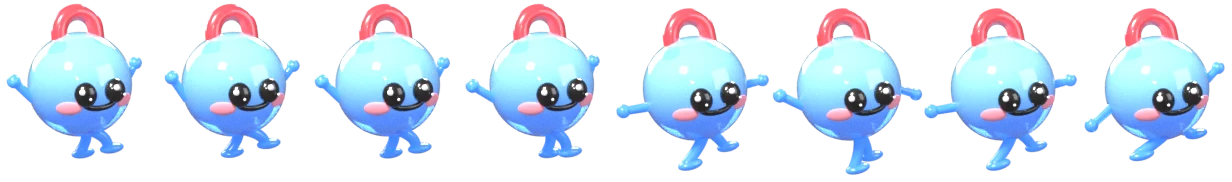
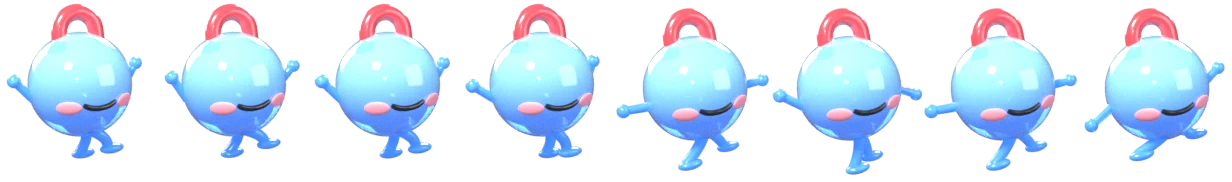
Game: heart-eyes love flight, proximity reactions, animation plan
Claude-Session: https://claude.ai/code/session_019fbWZCuFJHkf5tasQWWvE6

diff --git a/index.html b/index.html
@@ -1475,18 +1475,18 @@ function crash(why){if(R.shield){R.shield=false;sfx('pu_shield');msg('Shield sav
 function respawn(){let i=Math.floor(R.sx/CW);while(R.top[i]==null||i*CW<R.sx)i++;R.sx=i*CW+60;R.y=ground(R.sx);R.vy=0;R.air=false;R.jumps=0;R.lost=0;R.blocked=false;R.snap=1;R.fly=0}
 function power(k,x,y){sfx('pu_'+k);if(k==='shield')R.shield=true;else if(k==='magnet')R.magT=8;else R.x2T=10;msg(PU[k][2]+'!');R.msgT=1.4;for(let i=0;i<12;i++)R.fx.push({x:x+rnd(-30,30),y:y+rnd(-30,30),vx:rnd(-160,160),vy:rnd(-240,80),l:rnd(.4,.8),c:PU[k][0]})}
 function step(dt){if(R.dead)return;if(R.stop>0){R.stop-=dt;R.zp*=Math.exp(-6*dt);return}/* hit-stop: the whole game freezes for a few frames on a big moment */R.t+=dt;R.shk*=Math.exp(-14*dt);if(R.shk<.3)R.shk=0;R.zp*=Math.exp(-7*dt);const tgt=SP0*Math.min(1.7,1+.07*R.lvl);R.speed+=(tgt-R.speed)*Math.min(1,dt*2);R.cx+=R.speed*dt;/* the screen always scrolls right */{const nx=R.sx+R.speed*dt,gn=ground(nx),gc=ground(R.sx);/* an edge ahead (a wall, or the far side of a gap): if the runner only just touches it, it slides up and carries on; lower than that is the end */if(isFinite(gn)&&(!isFinite(gc)||gn<gc-VG)&&R.y>gn+SLIDE){R.blocked=true;R.lost=1}else{R.sx=nx;R.blocked=false}}ensure();/* a gap up (a vertical green line) stops the runner unless it is above the top edge: jump it */
- const wx=R.sx,gy=ground(wx);R.buf=Math.max(0,R.buf-dt);R.hurt=Math.max(0,R.hurt-dt);R.sq*=Math.exp(-9*dt);if(R.bnc>0)R.bnc-=dt;if(R.rx&&R.rx.t>0)R.rx.t-=dt;if(R.tko>0)R.tko-=dt;if(R.wbA>0){R.wbT+=dt;R.wbA*=Math.exp(-2.6*dt);if(R.wbA<.004)R.wbA=0}if(R.cpFly&&R.air&&!RMQ.matches&&R.wbA<.09)R.wbA=.09;/* the checkpoint flight keeps a happy wobble going */if(R.flip>0)R.flip-=dt;if(!R.air&&R.cpFly)R.cpFly=0;if(powered(R)&&!RMQ.matches&&Math.random()<dt*28)R.fx.push({x:R.sx+rnd(-50,20)*VK,y:R.y-rnd(20,150)*VK,vx:rnd(-260,-120),vy:rnd(-60,40),l:rnd(.25,.45),c:formOf(R)[3]?formOf(R)[3][Math.random()<.5?0:1]:'hsl('+Math.round(Math.random()*360)+',95%,62%)',g:.05});
+ const wx=R.sx,gy=ground(wx);R.buf=Math.max(0,R.buf-dt);R.hurt=Math.max(0,R.hurt-dt);R.sq*=Math.exp(-9*dt);if(R.bnc>0)R.bnc-=dt;if(R.rx&&R.rx.t>0)R.rx.t-=dt;if(R.tko>0)R.tko-=dt;{const pu=R.pups.find(p=>!p.got&&!p.nr&&p.x-R.sx<420&&p.x>R.sx);if(pu){pu.nr=1;wob(.08,15)}if(R.nextCp-R.sx<1100&&R.cpNr!==R.nextCp){R.cpNr=R.nextCp;wob(.12,12)}}/* eager wiggle when a power-up or checkpoint comes into range */if(R.cpFly&&R.air){R.cpT+=dt;if(!RMQ.matches&&Math.random()<dt*9)R.fx.push({x:R.sx+rnd(-60,60)*VK,y:R.y-rnd(60,190)*VK,vx:rnd(-80,80),vy:rnd(-220,-120),l:rnd(.6,1),c:'#ff3c96',g:-.2,h:rnd(18,34)})}/* little hearts float off */if(R.wbA>0){R.wbT+=dt;R.wbA*=Math.exp(-2.6*dt);if(R.wbA<.004)R.wbA=0}if(R.cpFly&&R.air&&!RMQ.matches&&R.wbA<.09)R.wbA=.09;/* the checkpoint flight keeps a happy wobble going */if(R.flip>0)R.flip-=dt;if(!R.air&&R.cpFly)R.cpFly=0;if(powered(R)&&!RMQ.matches&&Math.random()<dt*28)R.fx.push({x:R.sx+rnd(-50,20)*VK,y:R.y-rnd(20,150)*VK,vx:rnd(-260,-120),vy:rnd(-60,40),l:rnd(.25,.45),c:formOf(R)[3]?formOf(R)[3][Math.random()<.5?0:1]:'hsl('+Math.round(Math.random()*360)+',95%,62%)',g:.05});
  if(!R.air){if(isFinite(gy)){if(gy-R.y<=DESC*dt){const up=R.y-gy;R.y=up>30?R.y-up*Math.min(1,dt*16):gy;/* a sudden rise (a curb or wall edge) is climbed smoothly */R.coy=0;R.refY=gy}else{R.air=true;R.jumps=1;R.vy=0;R.top0=R.y}}else if((R.coy+=dt)>.14){R.air=true;R.jumps=1;R.vy=0;R.top0=R.y}}
  if(R.air){R.vy+=G*(hold&&R.vy<0&&!(R.fly>0)?HOLDG:1)*(R.cpFly&&R.vy>0?.4:1)*dt;if(R.cpFly&&R.vy>900)R.vy=900;/* checkpoint glide: a floaty, capped fall so the moonwalk shows */R.y+=R.vy*dt;R.top0=Math.min(R.top0,R.y);
   const cont=isFinite(gy)&&(R.y-gy<SLIDE||Math.abs(ground(wx-CW*.6)-gy)<=VG);
   if(cont&&R.y>gy+6&&(R.vy<0||R.y-gy<SLIDE)){R.y-=(R.y-gy)*Math.min(1,dt*16);if(R.vy>0)R.vy=0}/* touching an edge slightly: slide up smoothly */
-  else if(cont&&R.vy>=0&&R.y>=gy-6){const dist=R.y-R.top0;R.y=gy;R.vy=0;R.air=false;R.fly=0;R.coy=0;R.refY=gy;R.cpFly=0;wob(Math.min(.32,.06+dist/1400),17);R.sq=Math.min(.3,.05+dist/2000);if(dist>60&&!RMQ.matches){R.bnc=.45;R.bncA=Math.min(55,dist/9)}if(dist>120)sfx('land',1+rnd(-.07,.07));if(dist>60)puff(R.sx,R.y,Math.min(12,dist/40|0));if(R.buf>0){R.jumps=1;jump()}}
+  else if(cont&&R.vy>=0&&R.y>=gy-6){const dist=R.y-R.top0;R.y=gy;R.vy=0;R.air=false;R.fly=0;R.coy=0;R.refY=gy;if(R.cpFly&&!RMQ.matches)for(let i=0;i<10;i++)R.fx.push({x:R.sx+rnd(-30,30)*VK,y:R.y-rnd(40,140)*VK,vx:rnd(-260,260),vy:rnd(-320,-80),l:rnd(.5,.9),c:'#ff3c96',g:.3,h:rnd(16,30)});R.cpFly=0;wob(Math.min(.32,.06+dist/1400),17);R.sq=Math.min(.3,.05+dist/2000);if(dist>60&&!RMQ.matches){R.bnc=.45;R.bncA=Math.min(55,dist/9)}if(dist>120)sfx('land',1+rnd(-.07,.07));if(dist>60)puff(R.sx,R.y,Math.min(12,dist/40|0));if(R.buf>0){R.jumps=1;jump()}}
   else if(!isFinite(gy)&&R.y>R.cam+(H-H*.6)/Z+40){crash('You fell in a gap.');if(R.dead)return}}/* falling into a gap is only the end once the runner has dropped off the bottom of the screen: a double jump can still get out */
  if(R.fly>0)R.fly-=dt;
- if(R.sx>=R.nextCp){R.lvl++;R.nextCp+=CPD;R.vy=-CPV;R.air=true;R.jumps=1;R.top0=R.y;R.fly=2.6;R.cpFly=1;R.flip=0;wob(.38,11);/* booooing *//* checkpoint: a big launch into the air (R.fly marks the flight; R.cpFly draws it: gooey arrow up, moonwalk glide down) */sfx('cp');R.rings.push({x:R.sx,y:R.y-60*VK,r:60,l:.35});if(R.lvl===1||R.lvl===2)pop(R.sx,R.y-330*VK,R.lvl===1?'JOG':'RUN','#ebbd4e',1.1);msg('Checkpoint '+R.lvl);R.msgT=2;musicRate();R.zp=.05;shake(6);hitStop(2);vib(20)}
+ if(R.sx>=R.nextCp){R.lvl++;R.nextCp+=CPD;R.vy=-CPV;R.air=true;R.jumps=1;R.top0=R.y;R.fly=2.6;R.cpFly=1;R.cpT=0;R.flip=0;wob(.38,11);/* booooing *//* checkpoint: a big launch into the air (R.fly marks the flight; R.cpFly draws it: gooey arrow up, moonwalk glide down) */sfx('cp');R.rings.push({x:R.sx,y:R.y-60*VK,r:60,l:.35});if(R.lvl===1||R.lvl===2)pop(R.sx,R.y-330*VK,R.lvl===1?'JOG':'RUN','#ebbd4e',1.1);msg('Checkpoint '+R.lvl);R.msgT=2;musicRate();R.zp=.05;shake(6);hitStop(2);vib(20)}
  if(R.magT>0)R.magT-=dt;if(R.x2T>0)R.x2T-=dt;
  const cy=R.y-60*VK,cxw=R.sx;
- R.coins.forEach(c=>{if(c.got)return;if(R.magT>0){const dx=cxw-c.x,dy=cy-c.y,d=Math.hypot(dx,dy);if(d<420){const m=Math.min(d,900*dt);c.x+=dx/d*m;c.y+=dy/d*m}}if(Math.abs(c.x-cxw)<100*VK&&Math.abs(c.y-cy)<115*VK){c.got=1;react('coin',.18);R.combo=R.comboT>0?R.combo+1:1;R.comboT=1.3;R.mult=1+(R.combo>=4)+(R.combo>=8);R.bestCombo=Math.max(R.bestCombo,R.combo);const v=CT[c.t][3]*R.mult*(R.x2T>0?2:1);R.score+=v;sfx('c'+c.t,1+.055*Math.min(R.combo-1,12));pop(c.x,c.y-40,'+'+v,CT[c.t][0],.9+c.t*.15);for(let i=0;i<6+c.t*3;i++)R.fx.push({x:c.x,y:c.y,vx:rnd(-220,220),vy:rnd(-280,0),l:.4,c:CT[c.t][0]});if(c.t>=2){hitStop(c.t===3?4:2);R.zp=Math.max(R.zp,.03+.01*c.t);shake(c.t*2);vib(c.t===3?[20,20,40]:12)}if(R.combo%5===0){pop(R.sx,R.y-250*VK,'CHAIN x'+R.combo,'#a9b0ba',1.3);sfx('combo');shake(4)}}});
+ R.coins.forEach(c=>{if(c.got)return;if(R.magT>0){const dx=cxw-c.x,dy=cy-c.y,d=Math.hypot(dx,dy);if(d<420){const m=Math.min(d,900*dt);c.x+=dx/d*m;c.y+=dy/d*m}}if(Math.abs(c.x-cxw)<100*VK&&Math.abs(c.y-cy)<115*VK){c.got=1;react('coin',.18);if(!RMQ.matches)for(let i=0;i<6;i++)R.fx.push({x:c.x,y:c.y,vx:rnd(-220,220),vy:rnd(-260,60),l:rnd(.25,.4),c:i%2?'#ebbd4e':'#fafaf8',g:.1});R.combo=R.comboT>0?R.combo+1:1;R.comboT=1.3;R.mult=1+(R.combo>=4)+(R.combo>=8);R.bestCombo=Math.max(R.bestCombo,R.combo);const v=CT[c.t][3]*R.mult*(R.x2T>0?2:1);R.score+=v;sfx('c'+c.t,1+.055*Math.min(R.combo-1,12));pop(c.x,c.y-40,'+'+v,CT[c.t][0],.9+c.t*.15);for(let i=0;i<6+c.t*3;i++)R.fx.push({x:c.x,y:c.y,vx:rnd(-220,220),vy:rnd(-280,0),l:.4,c:CT[c.t][0]});if(c.t>=2){hitStop(c.t===3?4:2);R.zp=Math.max(R.zp,.03+.01*c.t);shake(c.t*2);vib(c.t===3?[20,20,40]:12)}if(R.combo%5===0){pop(R.sx,R.y-250*VK,'CHAIN x'+R.combo,'#a9b0ba',1.3);sfx('combo');shake(4)}}});
 
  R.pups.forEach(p=>{if(!p.got&&Math.abs(p.x-cxw)<100*VK&&Math.abs(p.y-cy)<115*VK){p.got=1;power(p.k,p.x,p.y);react('pup',.55);R.rings.push({x:R.sx,y:R.y-60*VK,r:50,l:.35})}});
  R.coins=R.coins.filter(c=>!c.got&&c.x>cxw-700);R.pups=R.pups.filter(p=>!p.got&&p.x>cxw-700);
@@ -1521,14 +1521,14 @@ function draw(){const g=cx,s=R,ax=W*AX,ay=H*.6,bg=BGS[Math.floor(s.cx/9000)%BGS.
  /* your best distance so far */
  if(bestD>0){const bx=700+bestD*100;if(bx>x0&&bx<x1){g.save();g.strokeStyle='rgba(235,189,78,.7)';g.lineWidth=5;g.setLineDash([22,16]);g.beginPath();g.moveTo(bx,s.cam-ay/Z-80);g.lineTo(bx,yB);g.stroke();g.restore();g.fillStyle='#ebbd4e';g.font='900 '+46*VK+'px '+FONT;g.textAlign='left';g.textBaseline='top';g.fillText('BEST '+bestD+' m',bx+14,s.cam-ay/Z+120)}}
  if(FR>2&&T[FR]!=null){/* forecast cone: centre = recent drift, bands = 1 and 2 standard deviations growing with the square root of the candles ahead, like a real fan chart */const {mu,sg}=coneAt(T,s.gp,FR),y0=T[FR];for(const [z,al] of [[CONE2,.13],[CONE1,.22]]){g.fillStyle='rgba(169,176,186,'+al+')';g.beginPath();g.moveTo(XF,y0);for(let k=1;k<=10;k++)g.lineTo(XF+k*CW,y0+mu*k-z*sg*Math.sqrt(k));for(let k=10;k>=1;k--)g.lineTo(XF+k*CW,y0+mu*k+z*sg*Math.sqrt(k));g.closePath();g.fill()}g.strokeStyle='rgba(233,235,238,.8)';g.lineWidth=4;g.setLineDash([12,10]);g.beginPath();g.moveTo(XF,y0);for(let k=1;k<=10;k++)g.lineTo(XF+k*CW,y0+mu*k);g.stroke();g.setLineDash([])}
- {const fy=ground(s.nextCp);if(isFinite(fy)&&s.nextCp<x1&&ok(CASE)){const d=560,cxp=s.nextCp+40,cyp=fy-d*.4,pl=.5+.5*Math.sin(s.t*4),fw=CASE.naturalWidth/24,fi=Math.floor(s.t*12)%24;glow(cxp,cyp,(440+60*pl),'235,189,78',.4+.15*pl);glow(cxp+30,cyp+20,(320+50*(1-pl)),'60,200,110',.32+.14*(1-pl));g.drawImage(CASE,fi*fw,0,fw,CASE.naturalHeight,cxp-d/2,fy-d*.86,d,d)}else if(isFinite(fy)&&s.nextCp<x1){g.fillStyle='#fafaf8';g.fillRect(s.nextCp,fy-240,8,240);g.fillStyle='#ebbd4e';g.beginPath();g.moveTo(s.nextCp+8,fy-240);g.lineTo(s.nextCp+110,fy-205);g.lineTo(s.nextCp+8,fy-170);g.fill()}}
- s.coins.forEach(c=>{if(c.x<x0||c.x>Math.min(x1,XF))return;const ct=CT[c.t],r=ct[2]*VK*1.15,rx=Math.max(8,r*Math.abs(Math.cos(s.t*4+c.x*.01))),im=COINI[c.t];if(ok(im)){g.drawImage(im,c.x-rx,c.y-r,2*rx,2*r);return}g.fillStyle=ct[0];g.strokeStyle=ct[1];g.lineWidth=5;g.beginPath();g.ellipse(c.x,c.y,rx,r,0,0,6.3);g.fill();g.stroke()});
- s.pups.forEach(p=>{if(p.x>XF)return;const y=p.y+Math.sin(s.t*3+p.x)*10,pi=PUI[p.k];if(pi&&ok(pi)){const d=150*VK,pl=.5+.5*Math.sin(s.t*5+p.x),fw=pi.naturalWidth/24,fi=Math.floor(s.t*18+p.x*.01)%24;glow(p.x,y,(120+40*pl)*VK,PUGLOW[p.k],.35+.2*pl);g.drawImage(pi,fi*fw,0,fw,pi.naturalHeight,p.x-d/2,y-d/2,d,d);return}g.fillStyle=PU[p.k][0];g.beginPath();g.arc(p.x,y,54*VK,0,6.3);g.fill();g.fillStyle='#fafaf8';g.font='800 '+50*VK+'px '+FONT;g.textAlign='center';g.textBaseline='middle';g.fillText(PU[p.k][1],p.x,y+2)});
+ {const fy0=ground(s.nextCp),cn=Math.max(0,1-(s.nextCp-s.sx)/1100),fy=fy0-Math.abs(Math.sin(s.t*7))*55*cn;/* near: the briefcase hops and glows harder */if(isFinite(fy0)&&s.nextCp<x1&&ok(CASE)){const d=560*(1+.08*cn),cxp=s.nextCp+40,cyp=fy-d*.4,pl=.5+.5*Math.sin(s.t*4),fw=CASE.naturalWidth/24,fi=Math.floor(s.t*12)%24;glow(cxp,cyp,(440+60*pl+140*cn),'235,189,78',.4+.15*pl+.2*cn);glow(cxp+30,cyp+20,(320+50*(1-pl)),'60,200,110',.32+.14*(1-pl));g.drawImage(CASE,fi*fw,0,fw,CASE.naturalHeight,cxp-d/2,fy-d*.86,d,d)}else if(isFinite(fy)&&s.nextCp<x1){g.fillStyle='#fafaf8';g.fillRect(s.nextCp,fy-240,8,240);g.fillStyle='#ebbd4e';g.beginPath();g.moveTo(s.nextCp+8,fy-240);g.lineTo(s.nextCp+110,fy-205);g.lineTo(s.nextCp+8,fy-170);g.fill()}}
+ s.coins.forEach(c=>{if(c.x<x0||c.x>Math.min(x1,XF))return;const ct=CT[c.t],dx=c.x-s.sx,n=dx>-40&&dx<320&&Math.abs(c.y-(s.y-90*VK))<300*VK?1-Math.max(0,dx)/320:0,/* near: the coin gets excited */r=ct[2]*VK*1.15*(1+.28*n*(.6+.4*Math.sin(s.t*22+c.x))),rx=Math.max(8,r*Math.abs(Math.cos(s.t*(4+10*n)+c.x*.01))),im=COINI[c.t],cx_=c.x-dx*.12*n,cy_=c.y+((s.y-90*VK)-c.y)*.12*n;/* and leans toward the runner */if(n>0)glow(cx_,cy_,r*2.2,'235,189,78',.3*n);if(ok(im)){g.drawImage(im,cx_-rx,cy_-r,2*rx,2*r);return}g.fillStyle=ct[0];g.strokeStyle=ct[1];g.lineWidth=5;g.beginPath();g.ellipse(c.x,c.y,rx,r,0,0,6.3);g.fill();g.stroke()});
+ s.pups.forEach(p=>{if(p.x>XF)return;const dx=p.x-s.sx,n=dx>-60&&dx<420?1-Math.max(0,dx)/420:0,/* near: spins faster, bobs harder, glows brighter */y=p.y+Math.sin(s.t*(3+6*n)+p.x)*(10+14*n),pi=PUI[p.k];if(pi&&ok(pi)){const d=150*VK*(1+.18*n),pl=.5+.5*Math.sin(s.t*(5+9*n)+p.x),fw=pi.naturalWidth/24,fi=Math.floor(s.t*(18+34*n)+p.x*.01)%24;glow(p.x,y,(120+40*pl+90*n)*VK,PUGLOW[p.k],.35+.2*pl+.25*n);g.drawImage(pi,fi*fw,0,fw,pi.naturalHeight,p.x-d/2,y-d/2,d,d);return}g.fillStyle=PU[p.k][0];g.beginPath();g.arc(p.x,y,54*VK,0,6.3);g.fill();g.fillStyle='#fafaf8';g.font='800 '+50*VK+'px '+FONT;g.textAlign='center';g.textBaseline='middle';g.fillText(PU[p.k][1],p.x,y+2)});
  if(s.shield){g.strokeStyle='rgba(169,176,186,.95)';g.fillStyle='rgba(169,176,186,.16)';g.lineWidth=8;g.beginPath();g.arc(s.sx,s.y-60*VK,110*VK,0,6.3);g.fill();g.stroke()}
  if(s.magT>0){g.strokeStyle='rgba(124,129,136,.8)';g.lineWidth=6;g.setLineDash([16,16]);g.beginPath();g.arc(s.sx,s.y-60*VK,160*VK,0,6.3);g.stroke();g.setLineDash([])}
  if(ST.gfx>1&&!s.dead){const gl=g.createRadialGradient(s.sx,s.y-80*VK,10,s.sx,s.y-80*VK,260*VK);gl.addColorStop(0,'rgba(235,189,78,.22)');gl.addColorStop(1,'rgba(235,189,78,0)');g.fillStyle=gl;g.beginPath();g.arc(s.sx,s.y-80*VK,260*VK,0,6.3);g.fill()}/* high graphics: a soft glow around the runner */
  if(!s.dead)player(s.sx,s.y,s);
- s.fx.forEach(f=>{g.globalAlpha=Math.max(0,Math.min(1,f.l*2));g.fillStyle=f.c;g.beginPath();g.arc(f.x,f.y,8,0,6.3);g.fill()});g.globalAlpha=1;
+ s.fx.forEach(f=>{g.globalAlpha=Math.max(0,Math.min(1,f.l*2));if(f.h&&ok(HEART)){const z=f.h*VK*(1+.15*Math.sin(f.l*20));g.drawImage(HEART,f.x-z/2,f.y-z/2,z,z)}else{g.fillStyle=f.c;g.beginPath();g.arc(f.x,f.y,8,0,6.3);g.fill()}});g.globalAlpha=1;
  s.rings.forEach(q=>{g.globalAlpha=Math.max(0,q.l/.35)*.8;g.strokeStyle='#fafaf8';g.lineWidth=6;g.beginPath();g.ellipse(q.x,q.y,q.r*VK,q.r*.35*VK,0,0,6.3);g.stroke()});g.globalAlpha=1;
  s.pops.forEach(q=>{const sz=64*VK*q.sz;g.globalAlpha=Math.min(1,q.l*2.2);g.font='900 '+sz+'px '+FONT;g.textAlign='center';g.textBaseline='middle';g.lineWidth=sz*.18;g.strokeStyle='#0e0e10';g.strokeText(q.t,q.x,q.y);g.fillStyle=q.c;g.fillText(q.t,q.x,q.y)});g.globalAlpha=1;g.restore();
  {const sxp=ax+(s.sx-s.cx)*Z;if(sxp<W*.12){const gr2=g.createLinearGradient(0,0,W*.25,0);gr2.addColorStop(0,'rgba(255,40,60,'+(.6*(1-Math.max(0,sxp)/(W*.12))).toFixed(2)+')');gr2.addColorStop(1,'rgba(192,86,79,0)');g.fillStyle=gr2;g.fillRect(0,0,W*.25,H)}}
@@ -1547,7 +1547,7 @@ let lastScoreTxt='';function paintScore(n,col){col=col||'#ebbd4e';const t=fmt(n)
  let x=cw;for(const ch of t){const m=PIX[ch];if(m)m.split(' ').forEach((row,ry)=>{for(let rx=0;rx<5;rx++)if(row[rx]==='1'){g.fillStyle='#0e0e10';g.fillRect(x+rx*u+1,ry*u+1,u,u);g.fillStyle=col;g.fillRect(x+rx*u,ry*u,u,u)}});x+=6*u}}
 
 /* game sprites (assets/game): 3D renders in the site palette. Runner sheet = 8 run frames + 1 jump frame. */
-const GIMG=n=>Object.assign(new Image(),{src:'assets/game/'+n+'.webp'}),RUNNER=GIMG('runner'),RUNNERG=GIMG('runner-glass'),RUNNERM=GIMG('runner-magnet'),RUNNERX=GIMG('runner-x2'),RUNNERR=GIMG('runner-rainbow'),CASE=GIMG('cp-case'),LOVEI={gold:GIMG('runner-love'),shield:GIMG('runner-love-glass'),magnet:GIMG('runner-love-magnet'),x2:GIMG('runner-love-x2'),combo:GIMG('runner-love-rainbow')},COINI=[1,2,3,4].map(i=>GIMG('coin-'+i)),PUI={shield:GIMG('pu-shield'),magnet:GIMG('pu-magnet'),x2:GIMG('pu-x2')},PUGLOW={shield:'198,202,209',magnet:'188,127,58',x2:'235,189,78'};
+const GIMG=n=>Object.assign(new Image(),{src:'assets/game/'+n+'.webp'}),RUNNER=GIMG('runner'),RUNNERG=GIMG('runner-glass'),RUNNERM=GIMG('runner-magnet'),RUNNERX=GIMG('runner-x2'),RUNNERR=GIMG('runner-rainbow'),CASE=GIMG('cp-case'),LOVEI={gold:GIMG('runner-love'),shield:GIMG('runner-love-glass'),magnet:GIMG('runner-love-magnet'),x2:GIMG('runner-love-x2'),combo:GIMG('runner-love-rainbow')},HEART=GIMG('heart'),LOVE_EYES=[[85.8,95.0,115.2,90.6],[85.8,95.0,115.2,90.6],[85.8,95.0,115.2,90.6],[85.8,95.0,115.2,90.6],[85.4,100.6,114.6,93.9],[85.4,100.6,114.6,93.9],[85.4,100.6,114.6,93.9],[85.4,100.6,114.6,93.9]]/* eye centres per love frame, sheet px (exported by objects.py) */,COINI=[1,2,3,4].map(i=>GIMG('coin-'+i)),PUI={shield:GIMG('pu-shield'),magnet:GIMG('pu-magnet'),x2:GIMG('pu-x2')},PUGLOW={shield:'198,202,209',magnet:'188,127,58',x2:'235,189,78'};
 function glow(x,y,r,rgb,a){const g=cx;g.save();g.globalCompositeOperation='lighter';const gr=g.createRadialGradient(x,y,0,x,y,r);gr.addColorStop(0,'rgba('+rgb+','+a+')');gr.addColorStop(1,'rgba('+rgb+',0)');g.fillStyle=gr;g.beginPath();g.arc(x,y,r,0,6.3);g.fill();g.restore()}
 const powered=s=>s.shield||s.magT>0||s.x2T>0;
 /* the powered form follows the strongest active power-up: 2x (green, $ eyes, pulsing) > magnet (blue, magnet on the head) > shield (purple-red) */
@@ -1560,8 +1560,14 @@ const ok=im=>im.complete&&im.naturalWidth>0;
    rising 27-30, falling 31-34. The gait steps up per checkpoint; ground frames advance with distance so feet never skate. */
 const GAIT={walk:[0,74],jog:[8,62],run:[16,50]},gaitOf=s=>s.lvl<1?'walk':s.lvl<2?'jog':'run',RPRI={coin:1,pup:2,cp:3},TKO=.15,FLIP=.45;
 function wob(a,f){if(RMQ.matches)return;R.wbA=Math.max(R.wbA||0,a);R.wbT=0;R.wbF=f||16}/* jelly wobble: amplitude, frequency (rad/s); decays on its own */
+/* checkpoint love: huge glossy heart eyes burst out of the sockets (elastic overshoot), then beat ba-dump */
+const heartBeat=t=>1+.22*Math.pow(Math.max(0,Math.sin(t*7.5)),8)+.14*Math.pow(Math.max(0,Math.sin(t*7.5-.7)),8);
+function heartEyes(g,s,fi,ox,oy,kx,ky){const E=LOVE_EYES[fi];if(!E||!ok(HEART))return;const t=s.cpT||0,pop=RMQ.matches?1:1-Math.exp(-9*t)*Math.cos(18*t),b=RMQ.matches?1:heartBeat(t),mx=(E[0]+E[2])/2,my=(E[1]+E[3])/2;
+ for(let k=0;k<2;k++){const ex=ox+E[2*k]*kx,ey=oy+E[2*k+1]*ky,dx=(E[2*k]-mx)*kx,sz=92*pop*b;/* each heart flies a little out from the face and up */
+  g.save();g.translate(ex+dx*.5*pop,ey-14*pop);g.rotate((k?.16:-.16)+.05*Math.sin(t*9+k));g.drawImage(HEART,-sz/2,-sz/2,sz,sz);g.restore()}}
 function react(k,d){if(RMQ.matches||(R.rx&&R.rx.t>0&&RPRI[R.rx.k]>RPRI[k]))return;R.rx={k,t:d,d}}/* a short body reaction; a bigger one is not cut off by a smaller one */
 function player(x,y,s){const g=cx,F=formOf(s),pw=!!F,fi0=F&&F[0](),im=fi0&&ok(fi0)?fi0:RUNNER,r=s.rx,rk=r&&r.t>0?r.k:'',u=rk?1-r.t/r.d:0,k=Math.sin(u*Math.PI);let sx=1,sy=1,rot=0,dy=0;
+ if(s.cpFly&&s.air){const b=heartBeat(s.cpT||0);glow(x,y-90*VK,(170+40*(b-1)*3)*VK,'255,60,150',.36);glow(x,y-90*VK,110*VK*b,'255,170,210',.26)}/* love aura, beating */
  if(pw){const p=.5+.5*Math.sin(s.t*7),hu=s.t*160;glow(x,y-85*VK,(150+30*p)*VK,F[1]||hueRGB(hu),.32+.12*p);glow(x,y-85*VK,(95+20*p)*VK,F[2]||hueRGB(hu+120),.22+.1*p)}/* powered aura in the form's colours, pulsing */
  const lk=F===FORM.combo?'combo':F===FORM.x2?'x2':F===FORM.magnet?'magnet':F===FORM.shield?'shield':'gold',li=LOVEI[lk],cpf=s.cpFly&&s.air&&ok(li);/* checkpoint flight: the same runner, smitten (love face) */
  if(s.air){const v=Math.min(1,Math.abs(s.vy)/2400);sy+=.14*v;sx-=.1*v;rot=Math.max(-.35,Math.min(.35,s.vy/3200))}/* stretch with speed, tilt with the arc */
@@ -1576,7 +1582,7 @@ function player(x,y,s){const g=cx,F=formOf(s),pw=!!F,fi0=F&&F[0](),im=fi0&&ok(fi
  else if(rk==='pup'){sx*=1+.3*k;sy*=1+.3*k;rot+=u*Math.PI*2}
  else if(rk==='cp'){dy-=130*k;rot-=u*Math.PI*2;sx*=1-.1*k;sy*=1+.14*k}
  g.save();g.translate(x,y+dy*VK);g.scale(VK,VK);g.translate(0,-85);g.rotate(rot);g.translate(0,85);g.scale(sx,sy);/* rotate about the body, squash from the feet */
- if(cpf){const fw=li.naturalWidth/8,fh=li.naturalHeight,Hh=fh*217/182,Ww=Hh*fw/fh,fi=s.vy<0?Math.floor(s.t*12)%4:4+Math.floor(s.t*15)%4;if(F===FORM.combo&&!RMQ.matches)g.filter='hue-rotate('+Math.round(s.t*160%360)+'deg)';g.drawImage(li,fi*fw,0,fw,fh,-Ww/2,-Hh+8,Ww,Hh);g.filter='none'}/* love frames: rise 0-3, fall 4-7; same pixel scale as the runner sheet */
+ if(cpf){const fw=li.naturalWidth/8,fh=li.naturalHeight,Hh=fh*217/182,Ww=Hh*fw/fh,fi=s.vy<0?Math.floor(s.t*12)%4:4+Math.floor(s.t*15)%4;if(F===FORM.combo&&!RMQ.matches)g.filter='hue-rotate('+Math.round(s.t*160%360)+'deg)';g.drawImage(li,fi*fw,0,fw,fh,-Ww/2,-Hh+8,Ww,Hh);g.filter='none';heartEyes(g,s,fi,-Ww/2,-Hh+8,Ww/fw,Hh/fh)}/* love frames: rise 0-3, fall 4-7; same pixel scale as the runner sheet */
  else if(ok(im)){const fw=im.naturalWidth/35,fh=im.naturalHeight,Hh=217,Ww=Hh*fw/fh,G=GAIT[gaitOf(s)];
   const fi=!s.air?G[0]+Math.floor(s.sx/G[1])%8:s.tko>0?24+Math.min(2,Math.floor((1-s.tko/TKO)*3)):s.vy<0?27+Math.floor(s.t*12)%4:31+Math.floor(s.t*15)%4;
   if(F===FORM.combo&&!RMQ.matches)g.filter='hue-rotate('+Math.round(s.t*160%360)+'deg)';g.drawImage(im,fi*fw,0,fw,fh,-Ww/2,-Hh+8,Ww,Hh);g.filter='none'}

diff --git a/scripts/icons/objects.py b/scripts/icons/objects.py
@@ -58,7 +58,8 @@ def _hit(objs, x, z):
 
 NOFACE = False
 DOLLAR = 0.0   # > 0: eyes are gold $ signs at this scale (2x power-up form)
-LOVE = os.environ.get('RUNNER_FACE') == 'love'   # smitten face: big glossy popped-out eyes with white shines, a hard smile, pink cheeks
+LOVE = os.environ.get('RUNNER_FACE', '').startswith('love')   # smitten face: big glossy popped-out eyes with white shines, a hard smile, pink cheeks
+NOEYES = os.environ.get('RUNNER_FACE') == 'love-noeyes'     # same, but the eyes are left out: the game draws huge heart eyes there (positions exported per frame)
 def face(targets, cx, cz, s=1.0):
     """black dot eyes + small smile on the front of `targets`, centred at (cx, cz), scaled by s"""
     if NOFACE: return []
@@ -72,11 +73,14 @@ def face(targets, cx, cz, s=1.0):
             e.data.body = '$'; e.data.size = 0.36 * s * DOLLAR; e.data.extrude = 0.035; e.data.bevel_depth = 0.012
             e.data.align_x = 'CENTER'; e.data.align_y = 'CENTER'; e.data.materials.append(principled('dollar', (1.0, 0.74, 0.18), 0.22, metallic=0.85, coat=0.8, emit=(1.0, 0.7, 0.15), emit_str=0.6))
             out.append(e); continue
+        if LOVE and NOEYES:  # an invisible marker where the eye would be; build() exports its pixel position
+            a_ = link(bpy.data.objects.new(f'eyeanchor{k}', None)); a_.location = tuple(p + n * 0.04 * s); out.append(a_)
         if LOVE:  # puppy eyes: bigger glossy black balls that pop out, each with a big and a small white shine
             r = 0.15 * s; e = uv_sphere(f'eye{k}', r, tuple(p + n * 0.035 * s), (1, 0.8, 1.1)); e.data.materials.append(f)
-            e.rotation_euler = (-n).to_track_quat('Y', 'Z').to_euler(); out.append(e)
+            if NOEYES: bpy.data.objects.remove(e)
+            else: e.rotation_euler = (-n).to_track_quat('Y', 'Z').to_euler(); out.append(e)
             shine = principled('shine', (0.85, 0.86, 0.9), 0.2, emit=(0.85, 0.86, 0.9), emit_str=0.5)  # a soft catch-light, not a white blob
-            for dx, dz, rr in ((-0.38, 0.4, 0.26), (0.32, -0.3, 0.12)):
+            for dx, dz, rr in (() if NOEYES else ((-0.38, 0.4, 0.26), (0.32, -0.3, 0.12))):
                 q = p + n * (0.035 * s + r * 0.85) + Vector((dx * r, 0, dz * r)); sh = uv_sphere('shine', rr * r, tuple(q)); sh.data.materials.append(shine); out.append(sh)
             ch = _hit(targets, cx + k * 0.4 * s, cz - 0.27 * s)  # blush below each eye
             if ch:
@@ -375,6 +379,24 @@ def o_dance(frame, n=12):
         f = uv_sphere('foot', 0.13, tuple(foot + Vector((0, -0.07, -0.02))), (0.9, 1.5, 0.6), 32, 16); f.data.materials.append(limb); legs.append(f)
     return [up] + legs, []
 
+def o_heart():
+    """a glossy pink heart, front-facing: two lobes and a point, solidified and rounded"""
+    import bmesh
+    pts = []
+    for a in range(0, 360, 6):  # classic heart curve
+        t = math.radians(a); x = 16 * math.sin(t) ** 3; z = 13 * math.cos(t) - 5 * math.cos(2 * t) - 2 * math.cos(3 * t) - math.cos(4 * t)
+        pts.append((x / 17, z / 17))
+    me = bpy.data.meshes.new('heart'); bm = bmesh.new(); vs = [bm.verts.new((x, 0, z)) for x, z in pts]; bm.faces.new(vs); bm.to_mesh(me); bm.free()
+    o = link(bpy.data.objects.new('heart', me))
+    o.data.materials.append(principled('heart', (0.85, 0.01, 0.2), 0.12, coat=1.0, coat_rough=0.02, emit=(1.0, 0.1, 0.35), emit_str=0.12))
+    bpy.context.view_layer.objects.active = o; bpy.ops.object.mode_set(mode='EDIT'); bpy.ops.mesh.select_all(action='SELECT')
+    bpy.ops.mesh.poke(); bpy.ops.mesh.subdivide(number_cuts=3); bpy.ops.object.mode_set(mode='OBJECT')   # grid the flat face so it can bulge
+    so = o.modifiers.new('so', 'SOLIDIFY'); so.thickness = 0.3; so.offset = 0
+    sub = o.modifiers.new('sub', 'SUBSURF'); sub.levels = 2; sub.render_levels = 2
+    cast = o.modifiers.new('puff', 'CAST'); cast.cast_type = 'SPHERE'; cast.factor = 0.55; cast.use_x = False; cast.use_z = False   # inflate front and back
+    o.rotation_euler = (0, math.radians(-12), math.radians(16))  # turned a little so the puff and gloss read
+    return [o], []
+
 def star_mesh(mat, loc=(0, 0, 0), r=0.9):
     import bmesh
     me = bpy.data.meshes.new('star'); bm = bmesh.new()
@@ -486,7 +508,7 @@ def o_case():
     hub.rotation_euler = (math.radians(28), 0, 0)  # tip toward the camera so the money inside shows
     return [hub], []
 
-OBJECTS = {'coin': (o_coin, -1), 'cp-case': (o_case, 1),  **{'dance-%d' % i: ((lambda i=i: o_dance(i)), 0) for i in range(12)}, 'pu2-shield': (o_pu_shield, 1), 'pu2-magnet': (o_pu_magnet, 1), 'pu2-x2': (o_pu_x2, 1), 'star': (o_star, 1), 'star-off': (lambda: o_star(True), 1), 'warn': (o_warn, -1), 'hook': (o_hook, 1), 'moon': (o_moon, -1), 'coin-silver': (lambda: o_coin('silver'), -1), 'coin-bronze': (lambda: o_coin('bronze'), -1),
+OBJECTS = {'coin': (o_coin, -1), 'heart': (o_heart, 1), 'cp-case': (o_case, 1),  **{'dance-%d' % i: ((lambda i=i: o_dance(i)), 0) for i in range(12)}, 'pu2-shield': (o_pu_shield, 1), 'pu2-magnet': (o_pu_magnet, 1), 'pu2-x2': (o_pu_x2, 1), 'star': (o_star, 1), 'star-off': (lambda: o_star(True), 1), 'warn': (o_warn, -1), 'hook': (o_hook, 1), 'moon': (o_moon, -1), 'coin-silver': (lambda: o_coin('silver'), -1), 'coin-bronze': (lambda: o_coin('bronze'), -1),
            **{'runner-%s-%d' % (g, i): ((lambda g=g, i=i: o_runner(g, i)), 0) for g, n in [*[(g, 8) for g in GAITS], *AIR.items()] for i in range(n)}, 'crypto': (o_crypto, 1), 'notes': (o_notes, -1), 'moneybag': (o_moneybag, 1), 'receipt': (o_receipt, -1),
            'tag': (o_tag, 1), 'bank': (o_bank, -1), 'tower': (o_tower, 1), 'factory': (o_factory, -1), 'crane': (o_crane, 1),
            'house': (o_house, -1), 'castle': (o_castle, 1), 'dome': (o_dome, -1), 'map': (o_map, 1), 'pin': (o_pin, -1), 'compass': (o_compass, 1)}
@@ -521,6 +543,12 @@ def build(name, out, res, samples, nfr):
         ang = sign * 2 * math.pi * i / nfr if name.startswith(('flag-', 'pu2-')) else sign * math.radians(25) * math.sin(2 * math.pi * i / nfr)
         pivot.rotation_quaternion = Quaternion((0, 0, 1), ang)
         render(f'{d}/{i:03d}.png')
+        anchors = sorted((o for o in bpy.data.objects if o.name.startswith('eyeanchor')), key=lambda o: o.name)
+        if anchors:
+            from bpy_extras.object_utils import world_to_camera_view
+            sc = bpy.context.scene; bpy.context.view_layer.update(); R_ = sc.render.resolution_x
+            px = [[round(c.x * R_, 1), round((1 - c.y) * R_, 1)] for c in (world_to_camera_view(sc, sc.camera, a.matrix_world.translation) for a in anchors)]
+            import json; json.dump(px, open(f'{d}/eyes.json', 'w'))
 
 if __name__ == '__main__':
     which, out = sys.argv[1], sys.argv[2]

diff --git a/docs/ANIMATION.md b/docs/ANIMATION.md
@@ -1,0 +1,59 @@
+# Runner game: animation plan
+
+Integration notes for Claude Code: how every animation in the Live Ball Bounce game should blend in and out, and loop without seams. Everything here lives in `index.html` (game closure, state `R`) and the sheets in `assets/game/`.
+
+## Principles
+
+1. **Time comes from state, not frames.** Every loop is a function of a clock (`R.t`, `R.cpT`, distance `R.sx`), never a frame counter. That gives the same speed at 60 Hz and 120 Hz, and a clean restart when a clock resets to 0.
+2. **Blend, don't switch.** When one state replaces another, ease a 0..1 weight over 120–250 ms instead of swapping on one frame. Use `k += (target - k) * (1 - Math.exp(-dt * rate))`. This is frame-rate independent.
+3. **Seamless loops.** A loop is a periodic function (sin, cos, or `Math.pow(Math.max(0, sin), n)` for beats), or a sprite cycle whose last frame leads into its first. No tweens that end and jump back.
+4. **One owner per channel.** Scale (squash/stretch/wobble), rotation (flip/lean), tint/form, face and particles are separate channels. Each state writes only its own channel, so states stack instead of fighting.
+5. **Reduced motion** (`RMQ.matches`): keep every state change, but drop pops, beats, wobble, particles and hops. The final pose shows immediately.
+
+## State map
+
+| State | Trigger | Visual | Loop / clock | In | Out |
+|---|---|---|---|---|---|
+| Walk → jog → run | level (`R.lvl`) | gait sheet row | frames driven by distance `R.sx` (stride length per gait) | cross-fade the row over 200 ms at a level change | same |
+| Take-off | jump press | `tko` frame + squash | one-shot 90 ms | instant (anticipation squash 60 ms) | into rise |
+| Rise / fall | `R.air`, sign of `vy` | rise/fall frames, leg flail | flail = `sin(R.t*14)` | switch at the apex, weight blended over 100 ms by `vy` near 0 | landing |
+| Landing | ground contact | squash `R.sq`, bounce `R.bnc` | damped spring | instant | spring decays to 0 |
+| Flip | power-up pickup | rotation channel `R.flip` | one-shot 360° ease-out | instant | ends at exactly 0 rad (snap so there's no drift) |
+| Jelly wobble | landing / pickup / proximity | `wob(a,f)` → `wbA` decays | `wbA*sin(wbT*wbF)` | additive | exponential decay |
+| Shield / magnet / 2x form | `R.shield`, `R.magT`, `R.x2T` | skin sheet swap + glow | glow pulse `sin(R.t*4)` | **todo:** cross-fade old→new skin over 250 ms (draw both with globalAlpha) | same, plus a blink at the last 1.5 s of the timer |
+| Combo | two or more forms at once | rainbow skin + hue-rotate | hue = `R.t*120 deg` mod 360 | as above | as above |
+| Checkpoint love flight | `R.cpFly` | love sheet, heart eyes, pink aura, floating hearts | `R.cpT`; `heartBeat()` lub-dub at 7.5 rad/s | heart pop: `1-e^(-9t)cos(18t)` overshoot | land: heart burst plus wobble; **todo:** shrink the hearts back into the head over 150 ms |
+| Coin near | within 320 px ahead | scale up, faster spin, lean, glow | spin is part of the coin's own `t` | proximity weight `1 - d/320` (continuous, no jump) | same |
+| Power-up near | within 420 px | +18% size, faster spin, glow, runner wiggle once | `p.nr` latches the wiggle | proximity weight | same |
+| Briefcase near | within 1100 px | hop `abs(sin(t*7))*55*w`, +8% size, glow | sine | proximity weight | same |
+| Pickups | collision | coin sparkles (6 fx), power-up flip and wobble | fx particles with gravity `g`, life `l` | instant | life fade |
+| Game-over dance | `R.dead` | dance sheet on the results card | sheet loop, sway `sin` | **todo:** fade the card in 200 ms, start the dance on frame 0 | — |
+
+## Transition rules (priority)
+
+When states fight over a channel, higher wins:
+
+1. Dead / dance
+2. Checkpoint love flight (face, sheet)
+3. Take-off / landing squash (scale)
+4. Power-up form (skin, tint): orthogonal to 2 and 3. The love sheet exists per skin (`runner-love-<skin>.webp`), so the form persists through the flight.
+5. Gait (sheet row)
+
+Additive channels (wobble, proximity glow, particles) never get priority. They sum, then clamp: scale ±35%, glow alpha ≤ 0.6.
+
+## Loop checklist (per animation)
+
+- Period is set by a clock, and the function at t = period equals t = 0.
+- Sprite cycles: the last frame leads into the first. Gait frames are indexed by `floor(distance / stride) % n`, so feet don't skate.
+- Beats use `pow(max(0, sin), 8)` pairs (lub-dub), so the rest phase is flat and the loop has no visible seam.
+- Clocks that drive one-shots (`cpT`, flip) reset to 0 on trigger, and their effect at t = 0 equals the non-animated pose.
+
+## To do
+
+- [ ] Skin cross-fade on a power-up gain or loss (250 ms, both sheets drawn with globalAlpha).
+- [ ] Expiry warning: the form blinks or flickers in the last 1.5 s of a power-up timer.
+- [ ] Heart eyes retract on landing (reverse pop, 150 ms) instead of disappearing.
+- [ ] Gait cross-fade at a level change (currently a hard switch of the row).
+- [ ] Results card fade-in and dance start sync.
+- [ ] Optional: a shared `ease(k, target, rate, dt)` helper once there are three or more blended weights. Inline until then.
+- [ ] Test at 30, 60 and 120 fps (throttle `dt`) to confirm that no loop depends on the frame rate.
